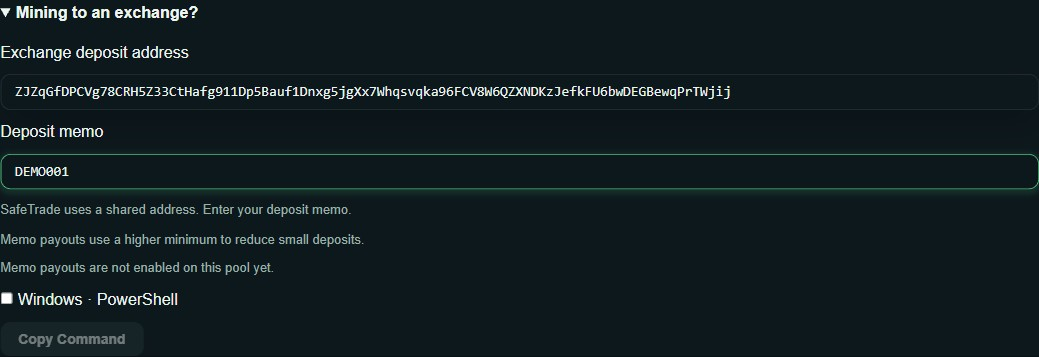
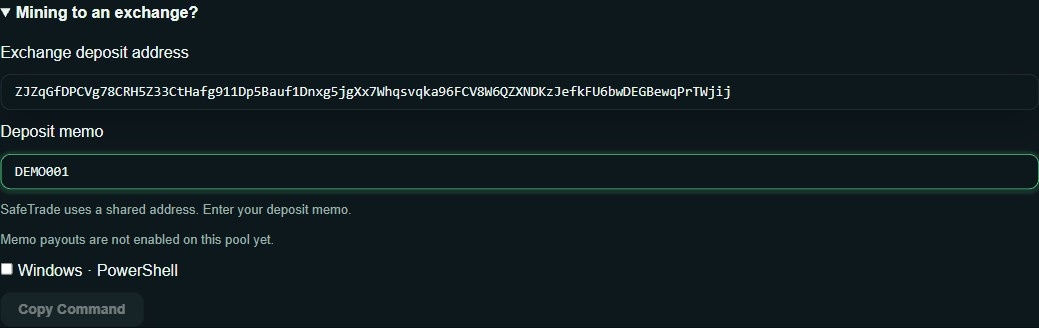
Show personal wallet minimum beside exchange payouts

diff --git a/frontend/src/components/ExchangeSetup.tsx b/frontend/src/components/ExchangeSetup.tsx
@@ -1,6 +1,8 @@
 import { useState } from 'react';
 import type { InfoResponse } from '../types';
-import { t } from '../i18n';
+import { t, tx } from '../i18n';
+import { formatExactCoins } from '../lib/format';
+import { minimumPayoutAtoms } from '../lib/payout-progress';
 import { knownExchange, shellQuote, validMemo } from '../lib/payout-destination';
 
 export function ExchangeSetup({ info, poolUrl }: { info: InfoResponse | null; poolUrl: string }) {
@@ -10,6 +12,8 @@ export function ExchangeSetup({ info, poolUrl }: { info: InfoResponse | null; po
   const [copied, setCopied] = useState(false);
   const exchange = knownExchange(info, address);
   const valid = /^[1-9A-HJ-NP-Za-km-z]{90,96}$/.test(address.trim()) && !!memo && validMemo(memo);
+  const personalMinimum = minimumPayoutAtoms(info?.min_payout_amount);
+  const memoMinimum = minimumPayoutAtoms(info?.memo_min_payout_amount);
   const enabled = info?.payout_memos_enabled === true;
   const command = `${windows ? '.\\seine.exe' : './seine'} --pool-url ${shellQuote(poolUrl, windows)} --address ${shellQuote(address.trim(), windows)} --payout-memo ${shellQuote(memo, windows)}`;
   return <details className="command-option">
@@ -22,8 +26,9 @@ export function ExchangeSetup({ info, poolUrl }: { info: InfoResponse | null; po
         aria-describedby="exchange-memo-help" onChange={e => { setMemo(e.target.value); setCopied(false); }} />
       <p id="exchange-memo-help" role={exchange && !memo ? 'alert' : undefined}>{exchange ? t('memoRequired', [exchange.name]) : t('memoLimit')}</p>
       {!validMemo(memo) && <p role="alert">{t('memoLimit')}</p>}
-      <p>{t('memoPolicy')}</p>
       {enabled ? <p>{t('memoMinimum', [info.memo_min_payout_amount ?? '—'])}</p> : <p role="status">{t('memoUnavailable')}</p>}
+      {enabled && personalMinimum != null && memoMinimum != null && personalMinimum < memoMinimum &&
+        <p>{tx('memoPersonalMinimum', [<bdi dir="ltr">{formatExactCoins(personalMinimum)}</bdi>])}</p>}
       <label><input type="checkbox" checked={windows} onChange={e => { setWindows(e.target.checked); setCopied(false); }} /> Windows · PowerShell</label>
       {valid && enabled && <pre className="config-block" dir="ltr">{command}</pre>}
       <button className="btn btn-secondary" type="button" disabled={!valid || !enabled} onClick={() => {

diff --git a/frontend/src/components/PayoutProgress.tsx b/frontend/src/components/PayoutProgress.tsx
@@ -8,12 +8,13 @@ interface PayoutProgressProps {
   api: ApiClient;
   memoAccount?: boolean;
   accountMinimum?: number;
+  personalMinimum?: number;
   confirmed?: number;
   queued: number;
   liveTick: number;
 }
 
-export function PayoutProgress({ api, confirmed, queued, liveTick, memoAccount = false, accountMinimum }: PayoutProgressProps) {
+export function PayoutProgress({ api, confirmed, queued, liveTick, memoAccount = false, accountMinimum, personalMinimum }: PayoutProgressProps) {
   // undefined is loading; null is unavailable. Never assume a configured minimum.
   const [minimum, setMinimum] = useState<number | null | undefined>(undefined);
   const refresh = Math.floor(liveTick / 12);
@@ -31,6 +32,7 @@ export function PayoutProgress({ api, confirmed, queued, liveTick, memoAccount =
     return () => { active = false; };
   }, [api, refresh, memoAccount, accountMinimum]);
 
+  const personalMinimumAtoms = memoAccount ? minimumPayoutAtoms(personalMinimum) : null;
   const progress = minimum == null ? null : payoutProgress(minimum, confirmed, queued);
   return <div className="miner-payout-progress">
     <strong>{tx('statsPayoutMinimum', [minimum == null ? '—' : <bdi dir="ltr">{formatExactCoins(minimum)}</bdi>])}</strong>
@@ -40,5 +42,7 @@ export function PayoutProgress({ api, confirmed, queued, liveTick, memoAccount =
       : progress?.state === 'below' ? <p>{tx('statsPayoutRemaining', [<bdi dir="ltr">{formatExactCoins(progress.amount)}</bdi>])}</p>
       : progress?.state === 'queued' ? <p>{tx('statsPayoutQueued', [<bdi dir="ltr">{formatExactCoins(progress.amount)}</bdi>])}</p>
       : progress?.state === 'met' ? <p>{t('statsPayoutMet')}</p> : null}
+    {minimum != null && personalMinimumAtoms != null && personalMinimumAtoms < minimum &&
+      <p>{tx('memoPersonalMinimum', [<bdi dir="ltr">{formatExactCoins(personalMinimumAtoms)}</bdi>])}</p>}
   </div>;
 }

diff --git a/frontend/src/pages/StatsPage.tsx b/frontend/src/pages/StatsPage.tsx
@@ -512,6 +512,7 @@ export function StatsPage({ api, liveTick, theme }: StatsPageProps) {
               api={api}
               memoAccount={!!appliedDestination.memo}
               accountMinimum={minerBalanceData?.min_payout_amount}
+              personalMinimum={poolInfo?.min_payout_amount}
               confirmed={balanceUnavailable ? undefined : liveBalance?.pending_confirmed}
               queued={pendingQueued}
               liveTick={liveTick}

diff --git a/frontend/showcases/exchange-memos/README.md b/frontend/showcases/exchange-memos/README.md
@@ -15,3 +15,6 @@ setup, feature disabled, and a rotated address registry. `?lang=ar` exercises RT
 The source-based [Seine walkthrough](seine.html) shows first-run setup, login
 confirmation, and missing/unsupported memo messages. The stats footer now shows
 only the minimum and one status line; setup retains the exchange explanation.
+
+Memo accounts show the configured personal-wallet minimum when it is lower.
+This comparison replaces the explanation about reducing small deposits.
